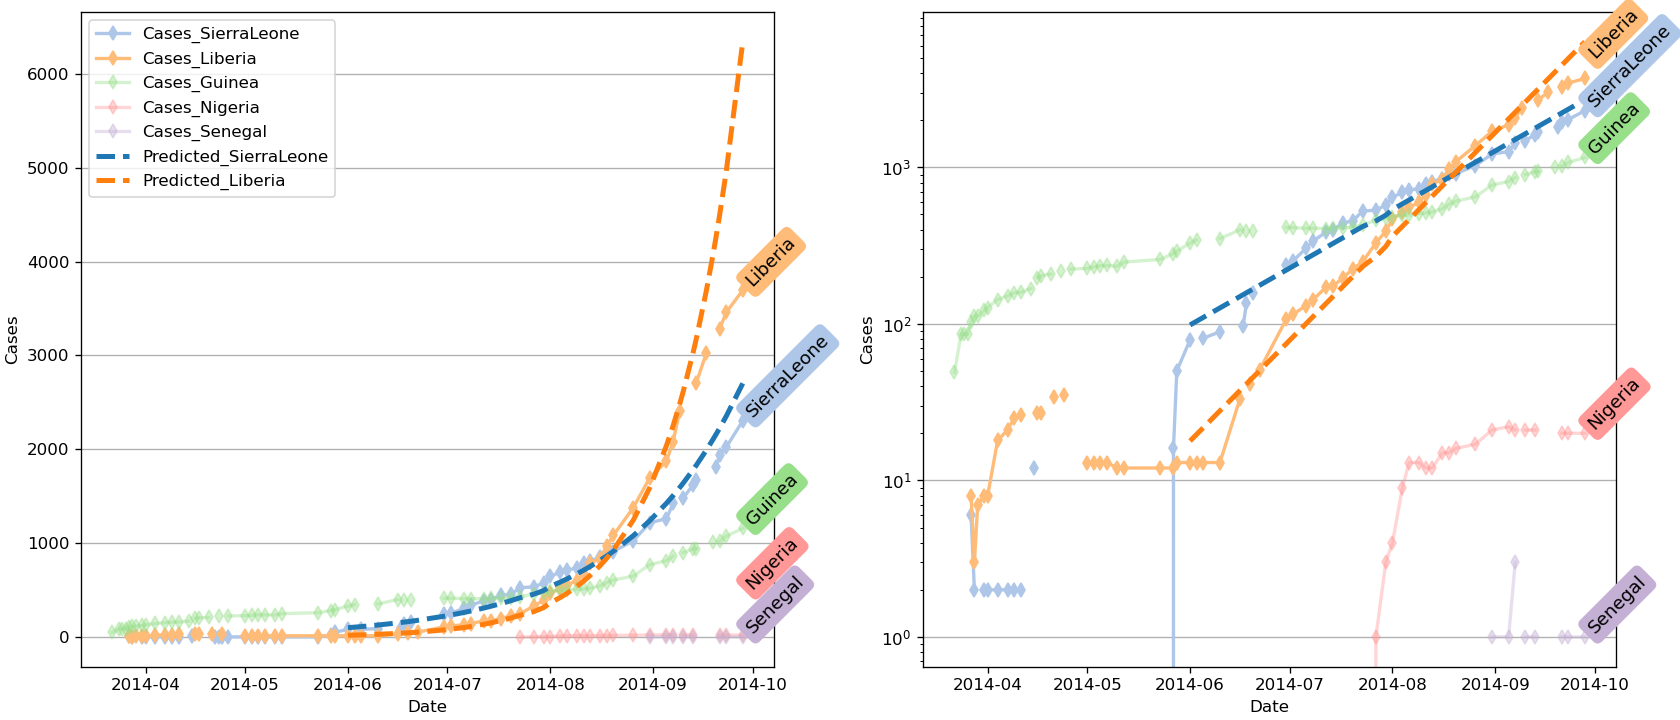
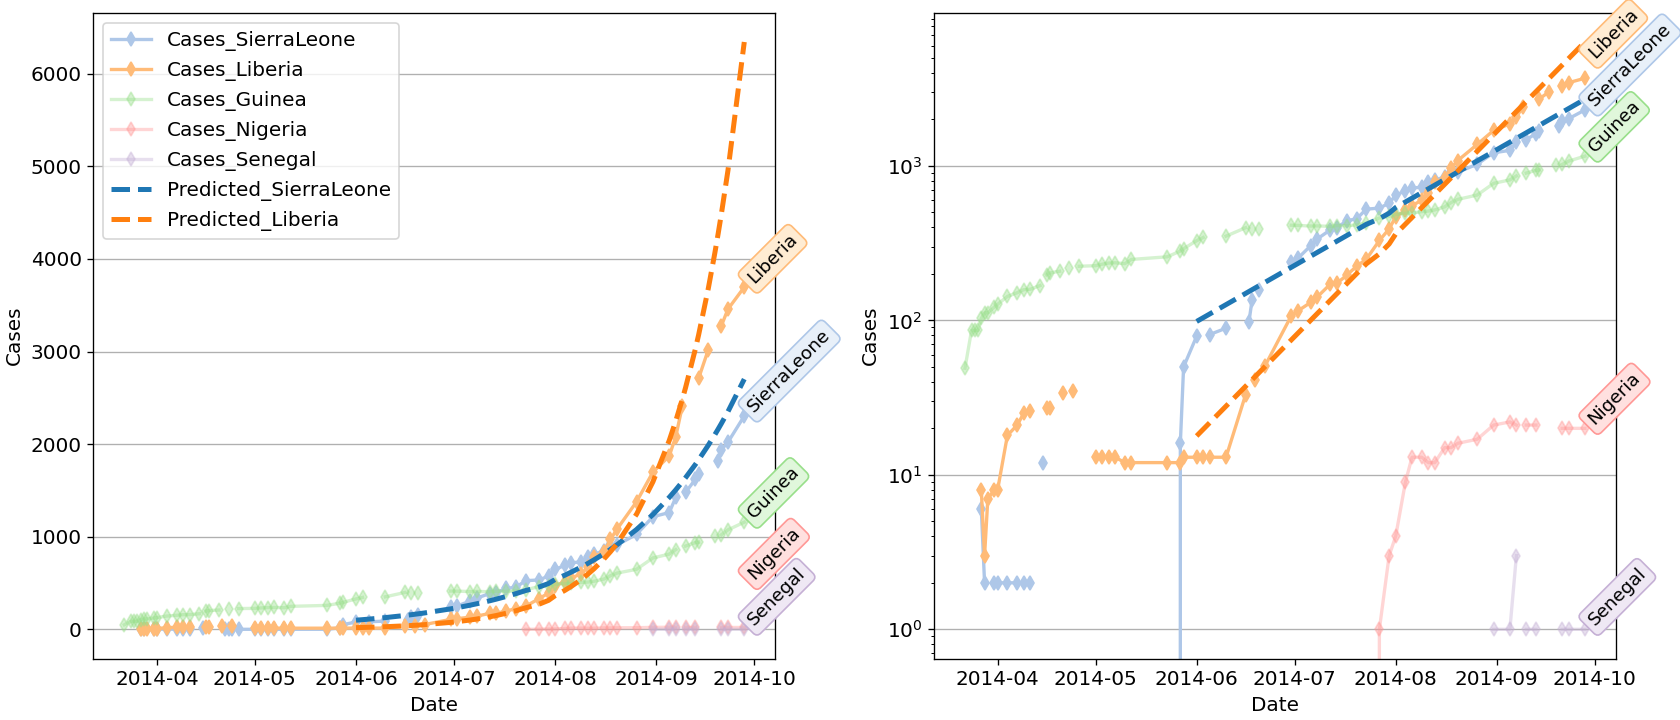
more polish

diff --git a/plot_bycountry.py b/plot_bycountry.py
@@ -1,23 +1,31 @@
 import json
 import pandas
 import numpy as np
-from matplotlib import pyplot,ticker
+from matplotlib import pyplot,ticker,rcParams
 import datetime
 
 ############
 
-cases_palette = [pyplot.cm.tab20(2*j+1) for j in range(5)]
-pred_palette = [pyplot.cm.tab20(2*j) for j in range(5)]
+rcParams['font.size'] = 12
+
+cases_palette = np.array([pyplot.cm.tab20(2*j+1) for j in range(5)])
+pred_palette = np.array([pyplot.cm.tab20(2*j) for j in range(5)])
 
 COUNTRIES = ['SierraLeone','Liberia','Guinea','Nigeria','Senegal']
 ALPHAS = [1,1,0.4,0.4,0.4]  # lessen visual clutter of countries not being highlighted.
+
+def color_op(vec):
+    return np.array(vec)**0.25
+
+
+################
+
+
 
 with open('country_timeseries.json', 'r') as ff:
     data_j = json.load(ff)
 #
 
-
-################
 
 headers = list( data_j[0].keys() )
 
@@ -104,12 +112,12 @@ for j,(h,bgcol) in enumerate(zip(COUNTRIES,cases_palette)):  # using pred_palett
         ha='left', 
         va='bottom', 
         annotation_clip=False,
-        bbox={'color':bgcol, 'alpha':1, 'edgecolor':None, 'boxstyle':'round'},
+        bbox={'facecolor':color_op(bgcol), 'alpha':1, 'edgecolor':bgcol, 'boxstyle':'round'},
         rotation=45
         )
     
     if h=='Nigeria': # one-off correction for overlapping Senegal/Nigeria cases.
-        yy += 450
+        yy += 475
     # Liberia needs to be shifted back for ax[0] if we use 45 degree rotation.
     if h=='Liberia':
         yy -= 1e3
@@ -119,7 +127,7 @@ for j,(h,bgcol) in enumerate(zip(COUNTRIES,cases_palette)):  # using pred_palett
         ha='left', 
         va='bottom', 
         annotation_clip=False,
-        bbox={'color':bgcol, 'alpha':1, 'edgecolor':None, 'boxstyle':'round'},
+        bbox={'facecolor':color_op(bgcol), 'alpha':1, 'edgecolor':bgcol, 'boxstyle':'round'},
         rotation=45
         )
 #
